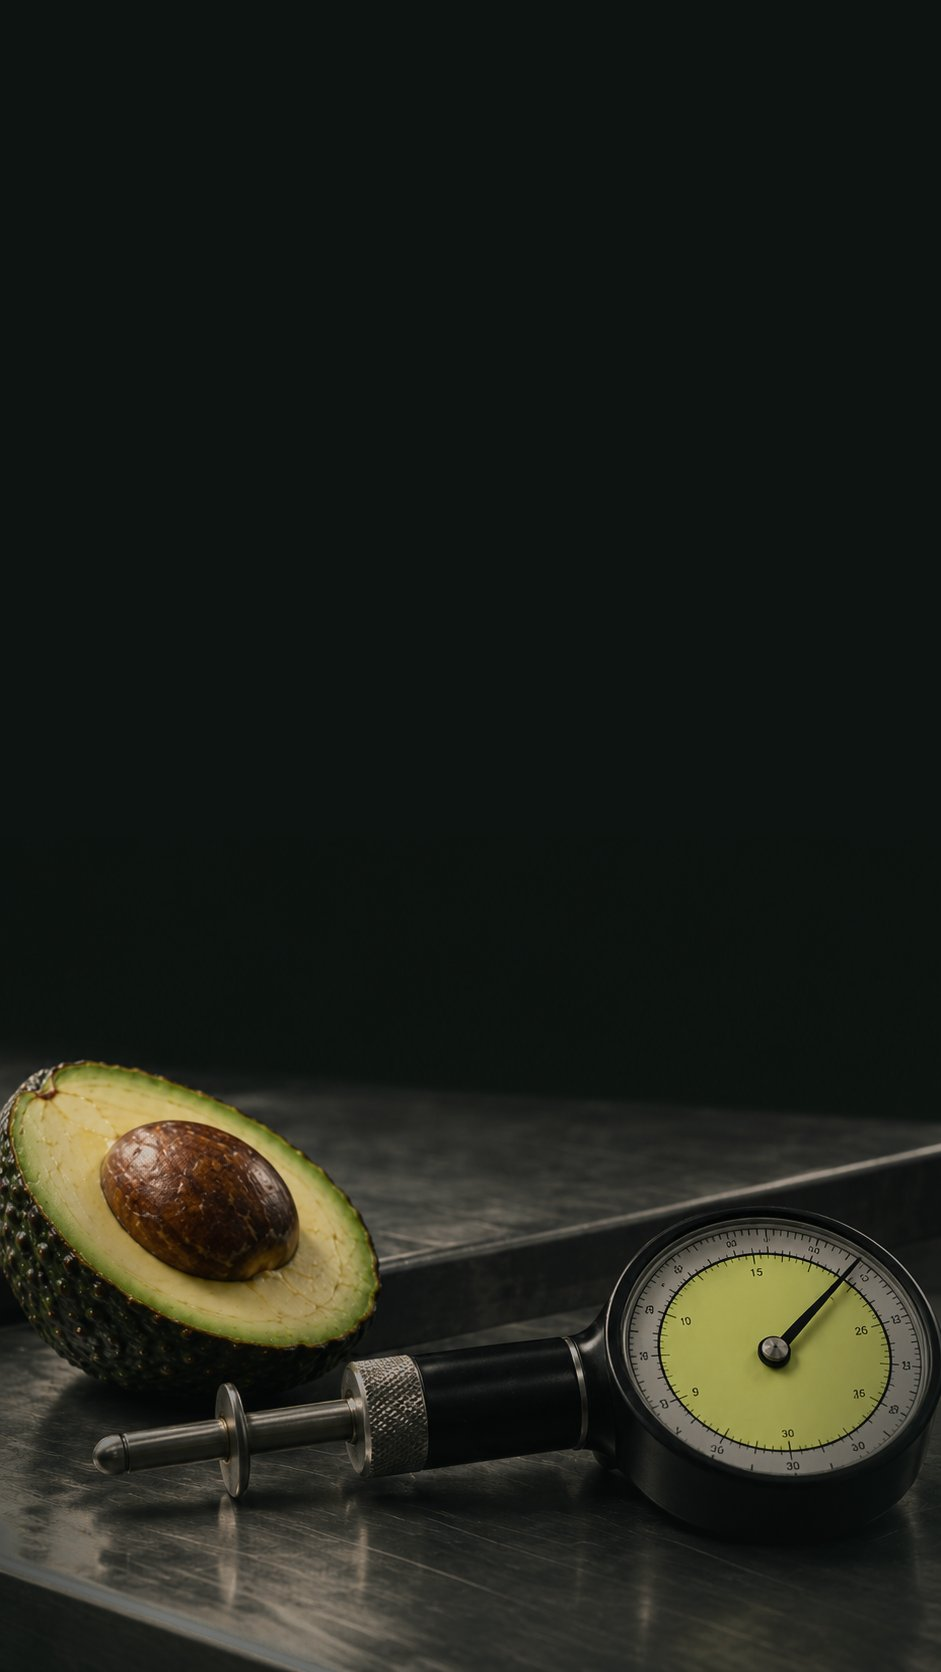
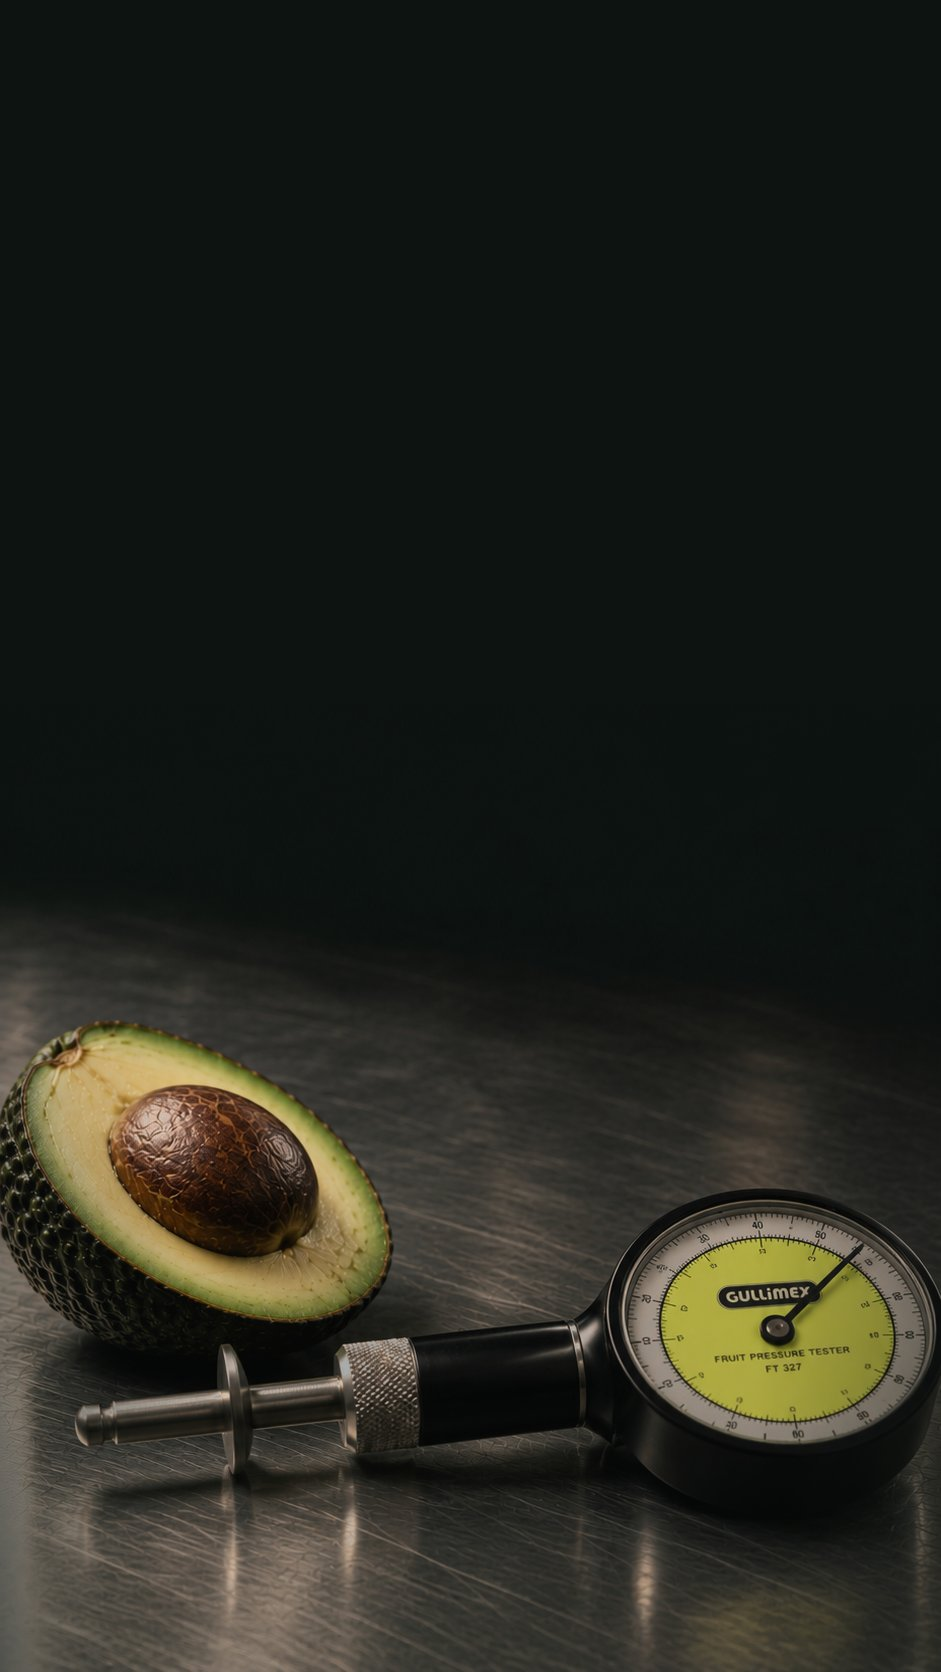
Phone sign-in background: the Gullimex-and-avocado bench, colour-matched to the app, anchored at natural width so the form stays clear of it
Claude-Session: https://claude.ai/code/session_01D8tjnUiivyrGcLWB3k9XYc

diff --git a/src/login.jsx b/src/login.jsx
@@ -5,7 +5,7 @@ import { QCWordmark } from "./brand.jsx";
 
 export function createLoginScreen({ DARK, GLOBAL_CSS, Ic, ChevronLeft, ChevronRight, Check, notifyHeads, nowISO, writeSession }) {
 // Bump when public/login-hero.jpg changes: the service worker and the browser cache the old picture under the same URL.
-const LOGIN_HERO_V = "5";
+const LOGIN_HERO_V = "6";
 return function LoginScreen({ s, onLogin, allowRoles }) {
   // Always the prototype's dark theme, whatever the app is set to: the sign-in page is the front door, one look.
   const D = DARK;
@@ -83,14 +83,16 @@ return function LoginScreen({ s, onLogin, allowRoles }) {
         .qc-login .link:hover{color:#2F4438;text-decoration:underline}
         @media (max-width:860px){
           .qc-login{grid-template-columns:1fr;grid-template-rows:auto 1fr;background:#0D1410!important;position:relative}
-          .qc-login::before{content:"";position:fixed;inset:0;z-index:0;background:#0D1410 url(/login-mobile-bg.jpg?v=${LOGIN_HERO_V}) center bottom / cover no-repeat}
+          .qc-login::before{content:"";position:fixed;inset:0;z-index:0;background:#0D1410 url(/login-mobile-bg.jpg?v=${LOGIN_HERO_V}) center bottom / 100% auto no-repeat}
           .qc-login>*{position:relative;z-index:1}
           .qc-login-brand{padding:22px 20px 0;min-height:0;background:transparent}
           .qc-login-brand .hero,.qc-login-brand .tint,.qc-login-brand .grain,.qc-login-brand .lines,.qc-login-brand .nav{display:none}
-          .qc-login-brand .cap{position:relative!important;opacity:1!important;bottom:auto;margin-top:28px}
+          .qc-login-brand .cap{position:relative!important;opacity:1!important;bottom:auto;margin-top:14px}
           .qc-login-brand .cap:not(:first-of-type){display:none}
-          .qc-login-brand .cap p:first-child{font-size:24px}.qc-login-brand .cap p:last-child{font-size:14px}
-          .qc-login-form{padding:24px 20px 36vh;align-items:flex-start;background:transparent}
+          .qc-login-brand .cap p:first-child{font-size:22px}.qc-login-brand .cap p:last-child{font-size:13px;margin-top:4px}
+          .qc-login-brand>div:first-of-type svg{width:150px;height:auto}
+          .qc-login-form{padding:10px 20px 36vh;align-items:flex-start;background:transparent}
+          .qc-login-form h1{font-size:22px!important;margin-bottom:2px!important}.qc-login-form h1+p{margin-bottom:16px!important}
         }
       `}</style>
       <aside className={`qc-login-brand${hero ? " photo" : ""}`} onMouseEnter={() => setPaused(true)} onMouseLeave={() => setPaused(false)} onTouchStart={e => { touchX.current = e.touches[0].clientX; }} onTouchEnd={e => { const x0 = touchX.current; touchX.current = null; if (x0 == null) return; const dx = e.changedTouches[0].clientX - x0; if (Math.abs(dx) > 40) goSlide(dx < 0 ? 1 : -1); }}>
